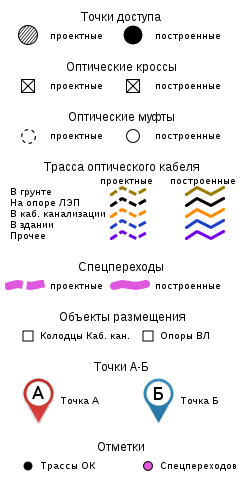
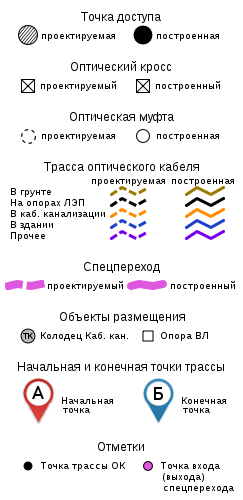
Fix legend (fonst\styles and req's)

diff --git a/nextgisweb_compulink/legend_generator/legend_generator.py b/nextgisweb_compulink/legend_generator/legend_generator.py
@@ -37,52 +37,54 @@ class LegendGenerator:
         caption_font = ImageFont.truetype('LiberationSans-Regular.ttf', 12)
         label_font = ImageFont.truetype('LiberationSans-Regular.ttf', 10)
 
-        label_plan = u'проектные'
-        label_fact = u'построенные'
+        label_plan_m = u'проектируемый'
+        label_plan_w = u'проектируемая'
+        label_fact_m = u'построенный'
+        label_fact_w = u'построенная'
 
 
         #Start draw
         current_h = 10
-        caption = u'Точки доступа'
+        caption = u'Точка доступа'
         self.draw_center_text(drawer, caption, caption_font, max_x, current_h)
-        drawer.text((50, current_h+20), label_plan, font=label_font, fill=(0, 0, 0, 255))
+        drawer.text((40, current_h+20), label_plan_w, font=label_font, fill=(0, 0, 0, 255))
         plan_img = self.legend_img_from_style('access_point', 0, 20, 20)
         background.paste(plan_img, (18, current_h+15))
 
-        drawer.text((155, current_h+20), label_fact, font=label_font, fill=(0, 0, 0, 255))
+        drawer.text((155, current_h+20), label_fact_w, font=label_font, fill=(0, 0, 0, 255))
         fact_img = self.legend_img_from_style('real_access_point', 0, 20, 20)
-        background.paste(fact_img, (123, current_h+15))
+        background.paste(fact_img, (133, current_h+15))
 
         current_h += 50
-        caption = u'Оптические кроссы'
+        caption = u'Оптический кросс'
         self.draw_center_text(drawer, caption, caption_font, max_x, current_h)
-        drawer.text((50, current_h+20), label_plan, font=label_font, fill=(0, 0, 0, 255))
+        drawer.text((40, current_h+20), label_plan_m, font=label_font, fill=(0, 0, 0, 255))
         plan_img = self.legend_img_from_style('optical_cross', 0, 16, 16)
         background.paste(plan_img, (20, current_h+18))
 
-        drawer.text((155, current_h+20), label_fact, font=label_font, fill=(0, 0, 0, 255))
+        drawer.text((155, current_h+20), label_fact_m, font=label_font, fill=(0, 0, 0, 255))
         fact_img = self.legend_img_from_style('real_optical_cross', 0, 16, 16)
-        background.paste(fact_img, (125, current_h+18))
+        background.paste(fact_img, (135, current_h+18))
 
 
         current_h += 50
-        caption = u'Оптические муфты'
+        caption = u'Оптическая муфта'
         self.draw_center_text(drawer, caption, caption_font, max_x, current_h)
-        drawer.text((50, current_h+20), label_plan, font=label_font, fill=(0, 0, 0, 255))
+        drawer.text((40, current_h+20), label_plan_w, font=label_font, fill=(0, 0, 0, 255))
         plan_img = self.legend_img_from_style('fosc', 0, 16, 16)
         background.paste(plan_img, (20, current_h+18))
 
-        drawer.text((155, current_h+20), label_fact, font=label_font, fill=(0, 0, 0, 255))
+        drawer.text((155, current_h+20), label_fact_w, font=label_font, fill=(0, 0, 0, 255))
         fact_img = self.legend_img_from_style('real_fosc', 0, 16, 16)
-        background.paste(fact_img, (125, current_h+18))
+        background.paste(fact_img, (135, current_h+18))
 
         current_h += 50
         caption = u'Трасса оптического кабеля'
         self.draw_center_text(drawer, caption, caption_font, max_x, current_h)
-        drawer.text((100, current_h+15), label_plan, font=label_font, fill=(0, 0, 0, 255))
-        drawer.text((170, current_h+15), label_fact, font=label_font, fill=(0, 0, 0, 255))
+        drawer.text((90, current_h+15), label_plan_w, font=label_font, fill=(0, 0, 0, 255))
+        drawer.text((170, current_h+15), label_fact_w, font=label_font, fill=(0, 0, 0, 255))
 
-        classes = {0: u'В грунте', 1:u'На опоре ЛЭП', 2:u'В каб. канализации', 3:u'В здании', 4:u'Прочее'}
+        classes = {0: u'В грунте', 1:u'На опорах ЛЭП', 2:u'В каб. канализации', 3:u'В здании', 4:u'Прочее'}
         for lay_ind, lay_name in classes.items():
             drawer.text((10, current_h + 15 + (lay_ind + 1)*11), lay_name, font=label_font, fill=(0, 0, 0, 255))
 
@@ -93,38 +95,38 @@ class LegendGenerator:
             background.paste(fact_img, (185, current_h + 15 + (lay_ind + 1)*11))
 
         current_h += 100
-        caption = u'Спецпереходы'
+        caption = u'Спецпереход'
         self.draw_center_text(drawer, caption, caption_font, max_x, current_h)
-        drawer.text((50, current_h+20), label_plan, font=label_font, fill=(0, 0, 0, 255))
+        drawer.text((47, current_h+20), label_plan_m, font=label_font, fill=(0, 0, 0, 255))
         plan_img = self.legend_img_from_style('special_transition', 0, 40, 10)
         background.paste(plan_img, (5, current_h+20))
 
-        drawer.text((155, current_h+20), label_fact, font=label_font, fill=(0, 0, 0, 255))
+        drawer.text((170, current_h+20), label_fact_m, font=label_font, fill=(0, 0, 0, 255))
         fact_img = self.legend_img_from_style('real_special_transition', 0, 40, 10)
-        background.paste(fact_img, (110, current_h+20))
+        background.paste(fact_img, (127, current_h+20))
         background.save(out_path)
 
         current_h += 50
         caption = u'Объекты размещения'
         self.draw_center_text(drawer, caption, caption_font, max_x, current_h)
-        drawer.text((40, current_h+20), u'Колодцы Каб. кан.', font=label_font, fill=(0, 0, 0, 255))
-        plan_img = self.legend_img_from_style('transmission_tower', 0, 16, 16) #sump_canalization
+        drawer.text((40, current_h+20), u'Колодец Каб. кан.', font=label_font, fill=(0, 0, 0, 255))
+        plan_img = self.legend_img_from_style('sump_canalization', 0, 16, 16)
         background.paste(plan_img, (20, current_h+18))
 
-        drawer.text((160, current_h+20), u'Опоры ВЛ', font=label_font, fill=(0, 0, 0, 255))
+        drawer.text((160, current_h+20), u'Опора ВЛ', font=label_font, fill=(0, 0, 0, 255))
         fact_img = self.legend_img_from_style('transmission_tower', 0, 16, 16)
         background.paste(fact_img, (140, current_h+18))
         background.save(out_path)
 
 
         current_h += 50
-        caption = u'Точки А-Б'
+        caption = u'Начальная и конечная точки трассы'
         self.draw_center_text(drawer, caption, caption_font, max_x, current_h)
-        drawer.text((60, current_h+35), u'Точка А', font=label_font, fill=(0, 0, 0, 255))
+        drawer.text((60, current_h+35), u'Начальная\n точка', font=label_font, fill=(0, 0, 0, 255))
         plan_img = self.legend_img_from_style('endpoint', 0, 36, 96)
         background.paste(plan_img, (20, current_h+18))
 
-        drawer.text((180, current_h+35), u'Точка Б', font=label_font, fill=(0, 0, 0, 255))
+        drawer.text((180, current_h+35), u'Конечная\n точка', font=label_font, fill=(0, 0, 0, 255))
         fact_img = self.legend_img_from_style('endpoint', 1, 36, 96)
         background.paste(fact_img, (140, current_h+18))
         background.save(out_path)
@@ -133,11 +135,11 @@ class LegendGenerator:
         current_h += 80
         caption = u'Отметки'
         self.draw_center_text(drawer, caption, caption_font, max_x, current_h)
-        drawer.text((40, current_h+20), u'Трассы ОК', font=label_font, fill=(0, 0, 0, 255))
+        drawer.text((40, current_h+20), u'Точка трассы ОК', font=label_font, fill=(0, 0, 0, 255))
         plan_img = self.legend_img_from_style('real_optical_cable_point', 0, 16, 16)
         background.paste(plan_img, (20, current_h+18))
 
-        drawer.text((160, current_h+20), u'Спецпереходов', font=label_font, fill=(0, 0, 0, 255))
+        drawer.text((160, current_h+20), u'Точка входа\n (выхода)\n спецперехода', font=label_font, fill=(0, 0, 0, 255))
         fact_img = self.legend_img_from_style('real_special_transition_point', 0, 16, 16)
         background.paste(fact_img, (140, current_h+18))
         background.save(out_path)
@@ -158,6 +160,7 @@ class LegendGenerator:
         esymbolset = E.symbolset(resource_filename('nextgisweb_mapserver', 'symbolset'))
         emap.insert(0, esymbolset)
 
+
         # PIXMAP и SVG маркеры
         for type_elem in emap.iterfind('./symbol/type'):
             if type_elem.text not in ('pixmap', 'svg'):
@@ -167,9 +170,13 @@ class LegendGenerator:
             marker = Marker.filter_by(keyname=image.text).one()
             image.text = self.env.file_storage.filename(marker.fileobj)
 
+        # FONTS
+        fonts_e = E.fontset(self.env.mapserver.settings['fontset'])
+        emap.insert(0, fonts_e)
+
         mapf_map = Map().from_xml(emap)
         mapfile(mapf_map, buf)
-        mapobj = mapscript.fromstring(buf.getvalue())
+        mapobj = mapscript.fromstring(buf.getvalue().encode('utf-8'))
         layerobj = mapobj.getLayer(0)
         classobj = layerobj.getClass(subclass)
         gdimg = classobj.createLegendIcon(mapobj, layerobj, w, h)
@@ -178,16 +185,3 @@ class LegendGenerator:
         img = Image.open(mem_png)
 
         return img
-
-
-
-
-# offset
-# from PIL import Image
-# img = Image.open('/pathto/file', 'r')
-# img_w, img_h = img.size
-# background = Image.new('RGBA', (1440, 900), (255, 255, 255, 255))
-# bg_w, bg_h = background.size
-# offset = ((bg_w - img_w) / 2, (bg_h - img_h) / 2)
-# background.paste(img, offset)
-# background.save('out.png')
